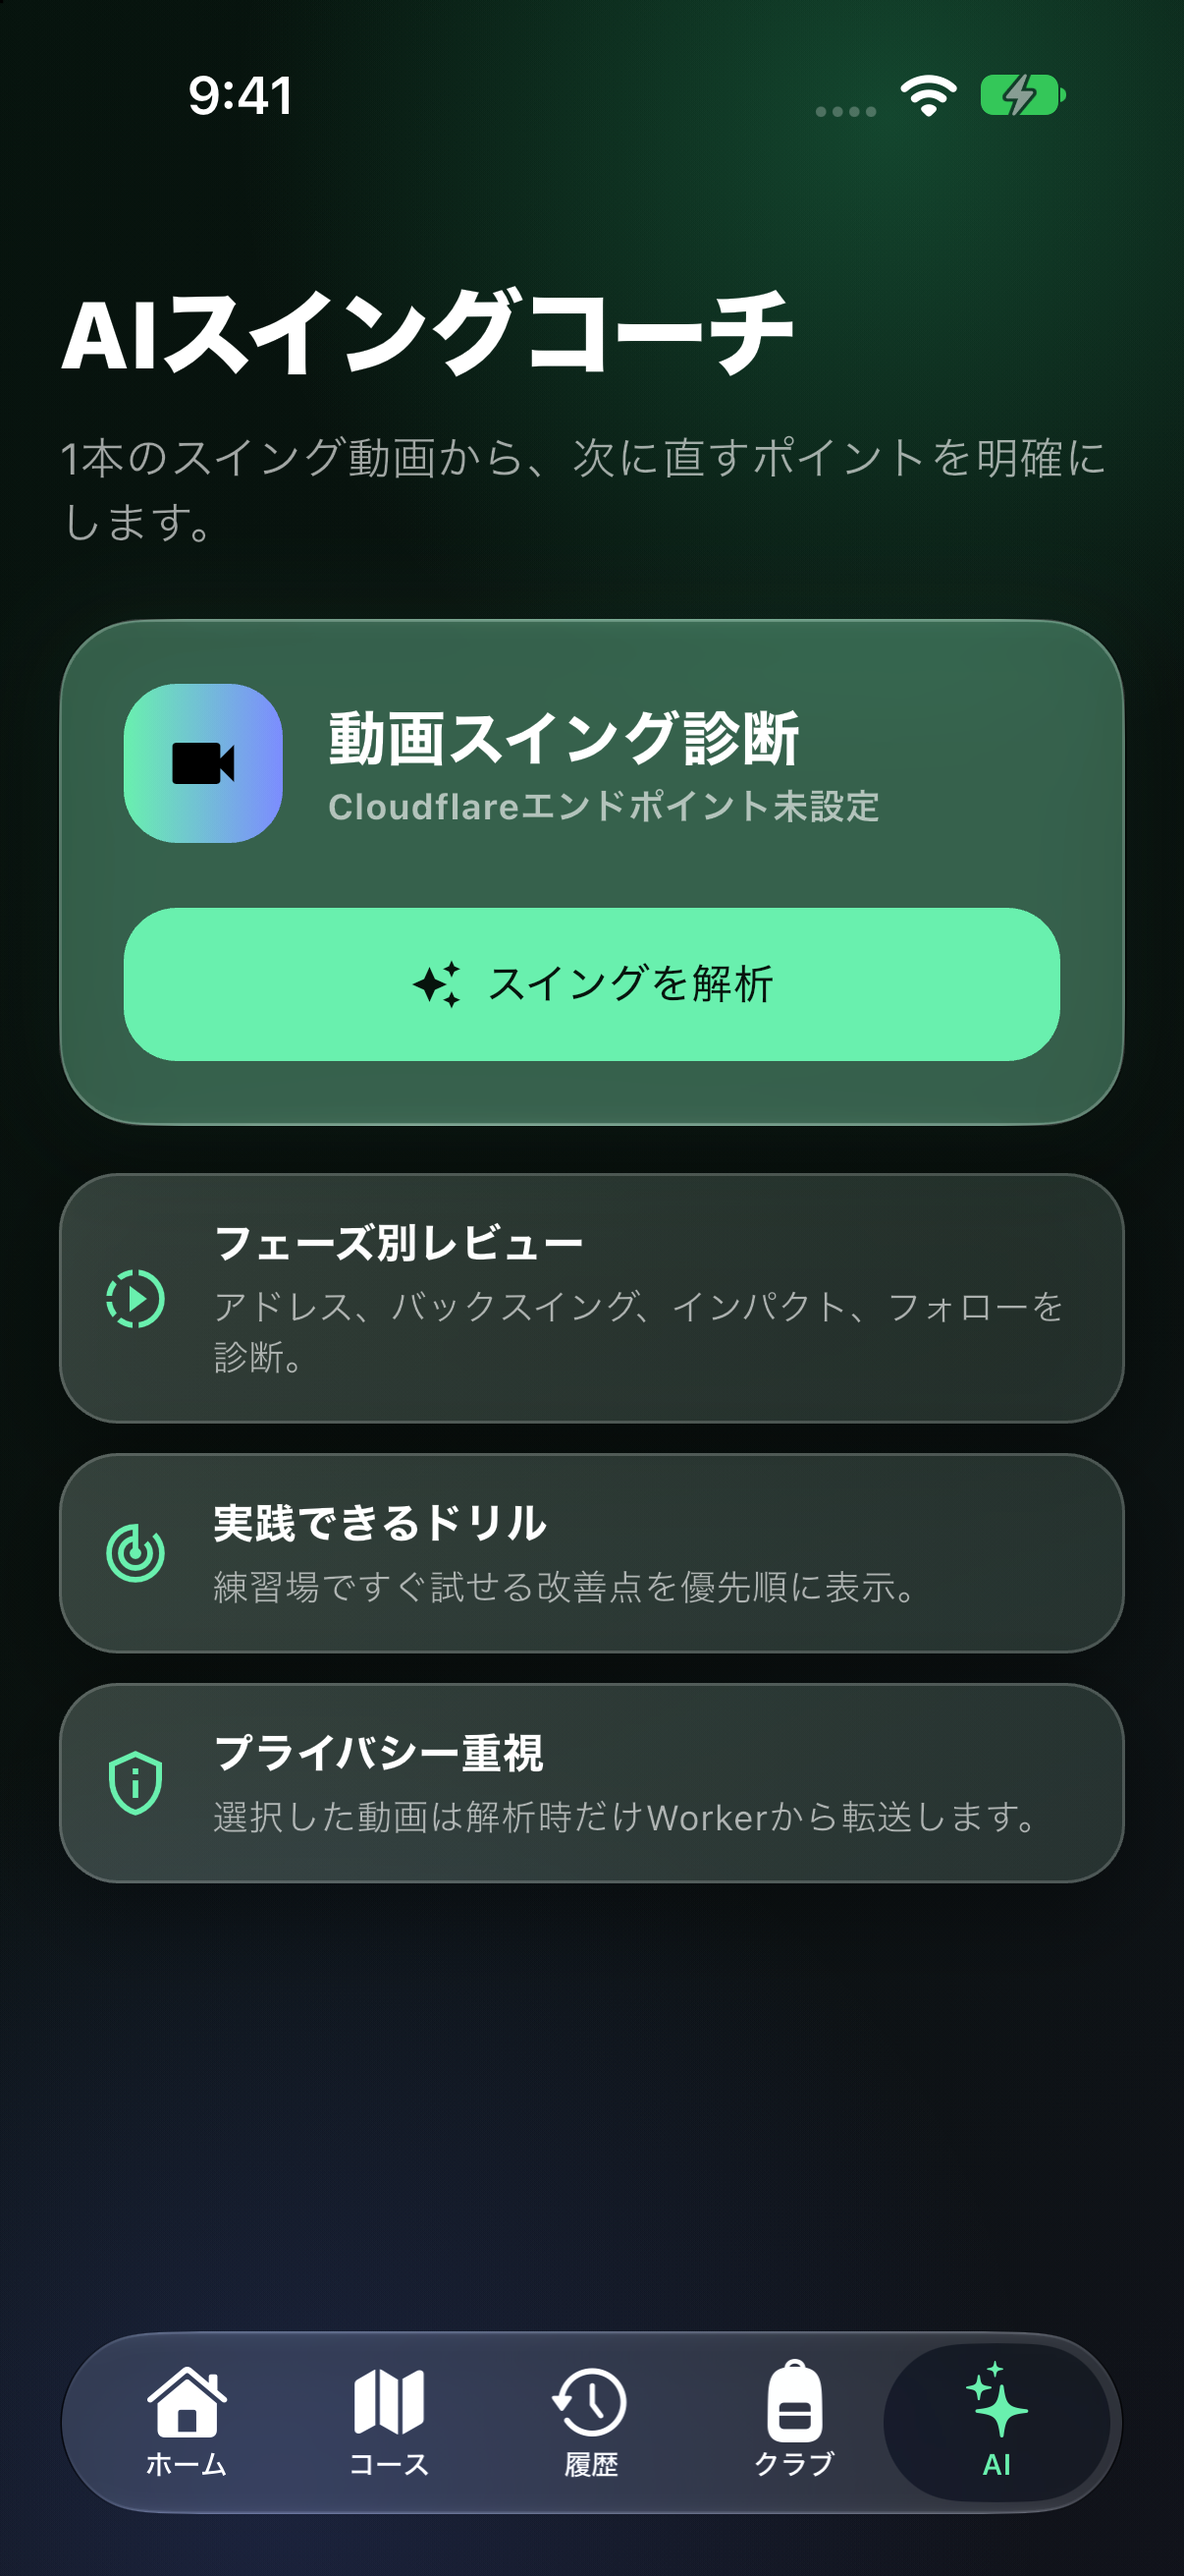
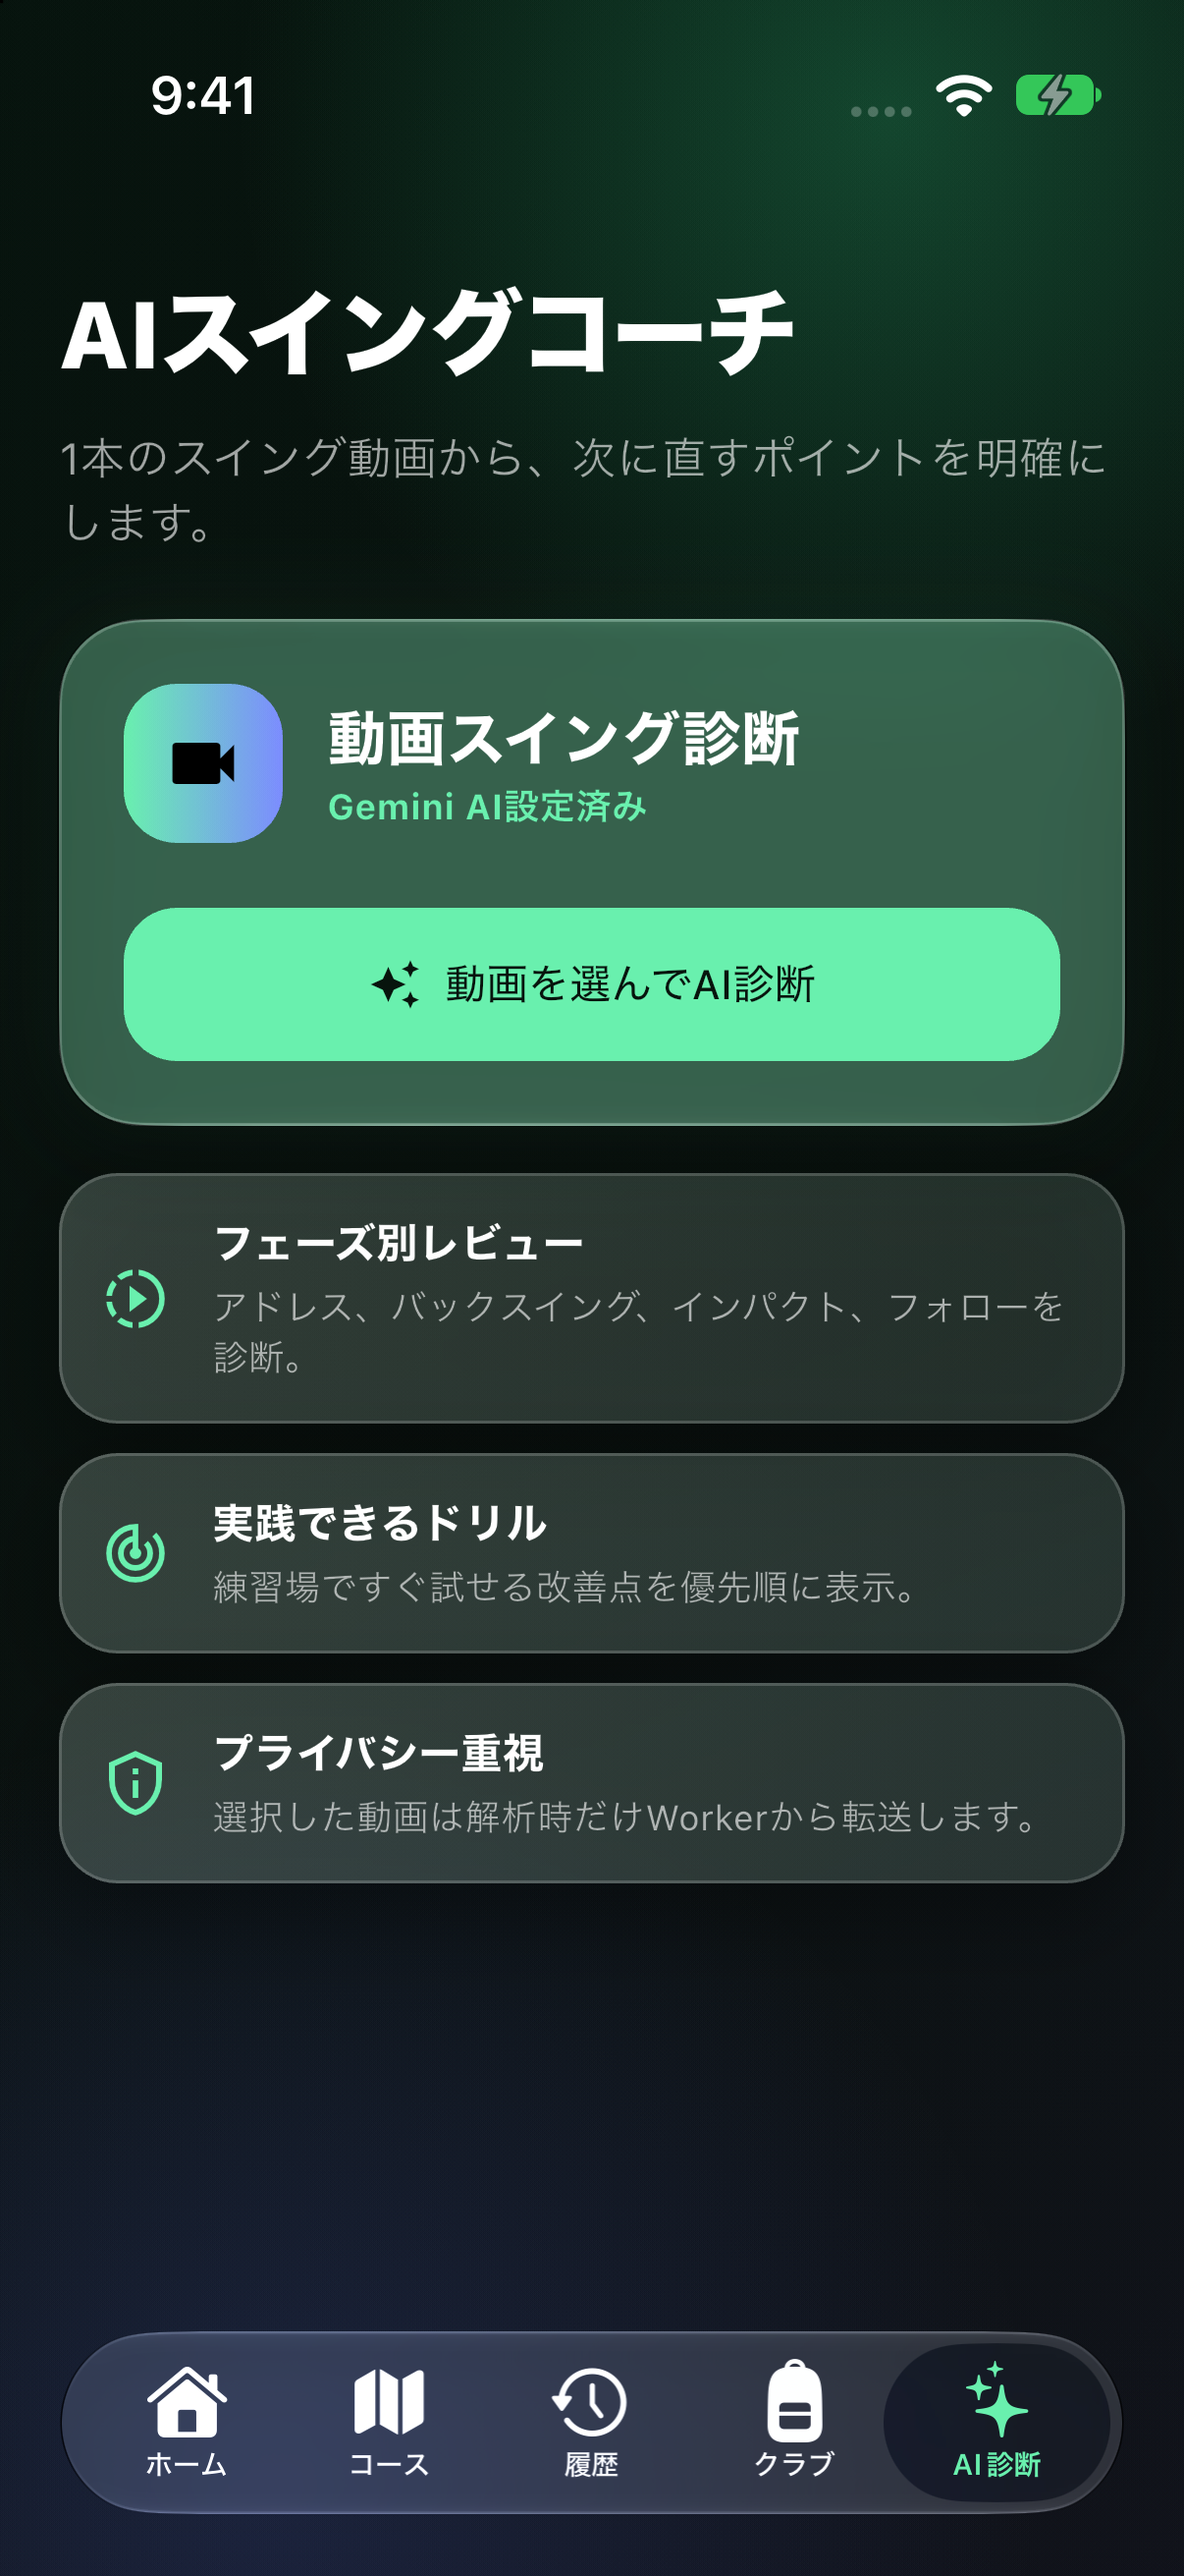
Make AI diagnosis visible from home

diff --git a/lib/main.dart b/lib/main.dart
@@ -325,7 +325,7 @@ class _HomePageState extends State<HomePage> {
         selectedIcon: Icons.backpack,
       ),
       LiquidGlassTabDestination(
-        label: 'AI',
+        label: tr(context, 'AI Coach', 'AI診断'),
         sfSymbol: 'sparkles',
         accessibilityIdentifier: 'aiTabButton',
         icon: Icons.auto_awesome_outlined,
@@ -342,7 +342,7 @@ class _HomePageState extends State<HomePage> {
             onStartRound: _openRoundSetup,
             onOpenCourses: () => _selectTab(1),
             onOpenHistory: () => _selectTab(2),
-            onOpenAI: () => _selectTab(4),
+            onOpenAI: _openShotAnalysis,
             onOpenSettings: () => _showSettingsSheet(context),
           ),
           GolfCoursePickerPage(
@@ -649,6 +649,8 @@ class _HomeDashboardState extends State<_HomeDashboard> {
                             ),
                           ),
                           const SizedBox(height: 18),
+                          _AiQuickCard(onTap: widget.onOpenAI),
+                          const SizedBox(height: 18),
                           _DashboardMetrics(summary: summary),
                           const SizedBox(height: 18),
                           if (summary.latest case final latest?)
@@ -660,8 +662,6 @@ class _HomeDashboardState extends State<_HomeDashboard> {
                             _EmptyHistoryCard(
                               onOpenCourses: widget.onOpenCourses,
                             ),
-                          const SizedBox(height: 14),
-                          _AiQuickCard(onTap: widget.onOpenAI),
                         ],
                       ),
                     ),
@@ -1002,7 +1002,7 @@ class _AiQuickCard extends StatelessWidget {
                 crossAxisAlignment: CrossAxisAlignment.start,
                 children: [
                   Text(
-                    tr(context, 'AI Swing Coach', 'AIスイングコーチ'),
+                    tr(context, 'Analyze your swing with AI', '動画を撮ってAI診断'),
                     style: TextStyle(
                       color: primaryTextColor(context),
                       fontSize: 17,
@@ -1013,8 +1013,8 @@ class _AiQuickCard extends StatelessWidget {
                   Text(
                     tr(
                       context,
-                      'Record a video and get Gemini feedback.',
-                      '動画を撮ってGeminiの診断を受ける。',
+                      'Gemini reviews each phase and suggests focused drills.',
+                      'Geminiが動きを分解し、優先ドリルを提案します。',
                     ),
                     style: TextStyle(
                       color: secondaryTextColor(context),
@@ -1115,13 +1115,13 @@ class _AiHubPage extends StatelessWidget {
                                   configured
                                       ? tr(
                                           context,
-                                          'Cloudflare API ready',
-                                          'Cloudflare API準備完了',
+                                          'Gemini AI configured',
+                                          'Gemini AI設定済み',
                                         )
                                       : tr(
                                           context,
-                                          'Cloudflare endpoint required',
-                                          'Cloudflareエンドポイント未設定',
+                                          'AI service setup required',
+                                          'AIサービスの設定が必要です',
                                         ),
                                   style: TextStyle(
                                     color: configured
@@ -1140,7 +1140,13 @@ class _AiHubPage extends StatelessWidget {
                       ElevatedButton.icon(
                         onPressed: onOpenAnalysis,
                         icon: const Icon(Icons.auto_awesome),
-                        label: Text(tr(context, 'Analyze a swing', 'スイングを解析')),
+                        label: Text(
+                          tr(
+                            context,
+                            'Choose video for AI diagnosis',
+                            '動画を選んでAI診断',
+                          ),
+                        ),
                       ),
                     ],
                   ),

diff --git a/test/widget_test.dart b/test/widget_test.dart
@@ -22,6 +22,37 @@ void main() {
     expect(Theme.of(logoContext).brightness, Brightness.light);
   });
 
+  testWidgets('exposes AI from the tab bar and home dashboard', (
+    WidgetTester tester,
+  ) async {
+    tester.view.physicalSize = const Size(1000, 1800);
+    tester.view.devicePixelRatio = 1;
+    addTearDown(tester.view.resetPhysicalSize);
+    addTearDown(tester.view.resetDevicePixelRatio);
+
+    await tester.pumpWidget(const BlackShellGolfApp());
+    await tester.pump();
+
+    await tester.tap(find.byKey(const ValueKey('aiTabButton')));
+    await tester.pump();
+
+    expect(find.text('AI Swing Coach'), findsOneWidget);
+    expect(find.text('Video diagnosis'), findsOneWidget);
+    expect(find.text('Gemini AI configured'), findsOneWidget);
+
+    await tester.tap(find.byKey(const ValueKey('homeTabButton')));
+    await tester.pump();
+
+    final homeAiAction = find.byKey(const Key('shotAnalysisButton'));
+    await tester.ensureVisible(homeAiAction);
+    await tester.tap(homeAiAction);
+    await tester.pump();
+    await tester.pump(const Duration(milliseconds: 400));
+
+    expect(find.text('Shot Analysis'), findsOneWidget);
+    expect(find.byKey(const ValueKey('shotAnalysisSetup')), findsOneWidget);
+  });
+
   testWidgets('creates a room and starts a scorecard', (
     WidgetTester tester,
   ) async {

diff --git a/docs/SCREENSHOT_GALLERY.md b/docs/SCREENSHOT_GALLERY.md
@@ -9,11 +9,11 @@ verify system adaptation.
 
 | Surface | Language / appearance | What is shown |
 | --- | --- | --- |
-| Home | Japanese / Dark | Round entry points, summary cards, and native bottom navigation |
+| Home | Japanese / Dark | Round entry point, one-tap AI diagnosis, summary cards, and native bottom navigation |
 | Courses | Japanese / Dark | Curated public GOLFZON catalog and search controls |
 | Scorecard | Japanese / Dark | Standard template label and unset score presentation |
 | Scorecard | English / Light | System language, appearance, and status bar adaptation |
-| AI Swing Coach | Japanese / Dark | Cloudflare configuration state and coaching flow |
+| AI Swing Coach | Japanese / Dark | Gemini configuration state and video diagnosis flow |
 | Apple Watch | Japanese / Dark | Waiting state for an iPhone round |
 
 ## Core iPhone experience
